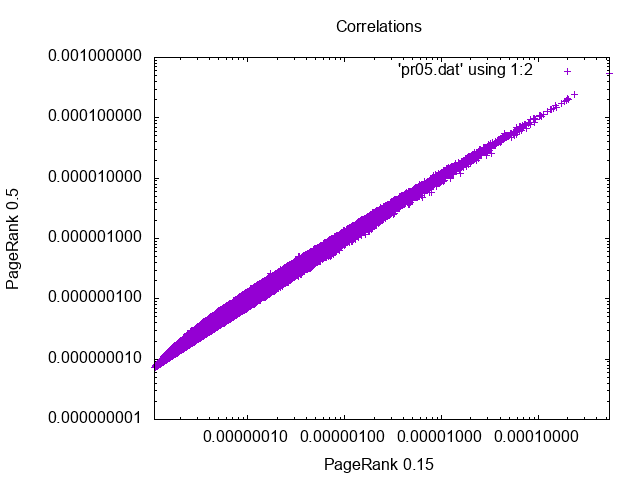
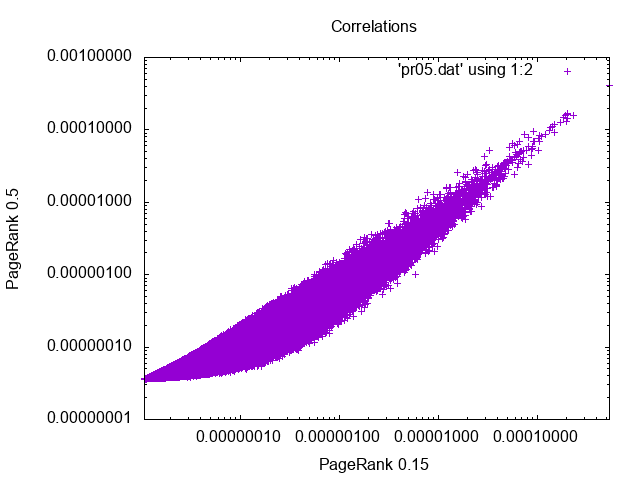
fixed graphs

diff --git a/Practical 3/Exercise 3 - Correlations/exercise14.cpp b/Practical 3/Exercise 3 - Correlations/exercise14.cpp
@@ -64,18 +64,23 @@ int main(int argc, char** argv) {
     save_pr_pr("pr02.dat", graph, P, P2);
     delete[](P2);
 
-    alpha = 0.1;
+    alpha = 0.5;
     cout<<"Starting page rank with alpha="<<alpha<<" and #iteration="<<iteration<<endl;
     P2 = page_rank(graph, alpha, iteration);
     save_pr_pr("pr05.dat", graph, P, P2);
     delete[](P2);
 
-    alpha = 0.1;
+    alpha = 0.9;
     cout<<"Starting page rank with alpha="<<alpha<<" and #iteration="<<iteration<<endl;
     P2 = page_rank(graph, alpha, iteration);
     save_pr_pr("pr09.dat", graph, P, P2);
     delete[](P2);
 
+    alpha = 1;
+    cout<<"Starting page rank with alpha="<<alpha<<" and #iteration="<<iteration<<endl;
+    P2 = page_rank(graph, alpha, iteration);
+    save_pr_pr("pr1.dat", graph, P, P2);
+    delete[](P2);
 
     long max_index = 0;
     long min_index = 0;
